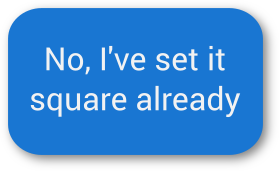
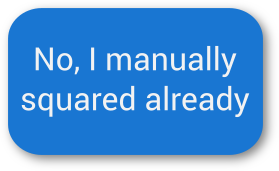
Language & btn tweaks to decision screen

Changed region(s): [[0.0573, 0.4971, 0.8889, 0.7018], [0.1147, 0.2632, 0.8602, 0.4678]]

diff --git a/src/asmcnc/skavaUI/screen_squaring_manual_vs_square.py b/src/asmcnc/skavaUI/screen_squaring_manual_vs_square.py
@@ -173,8 +173,8 @@ class SquaringScreenDecisionManualVsSquare(Screen):
         info = "[b]Manual squaring[/b]\n" \
                 "Before power up, the user manually pushes the X beam up against the bench legs at the home end. " \
                 "The power is then switched on. " \
-                "The motor coils lock the lower beam into position with a very high degree of reliability. " \
-                "Thus, mechanical adjustments to square the beam can be repeated reliably.\n\n" \
+                "The motor coils lock the lower beam into position with a high degree of reliability. " \
+                "Thus, mechanical adjustments to square the beam can be repeated.\n\n" \
                 "[b]Auto squaring[/b]\n" \
                 "No special preparation from the user is needed. " \
                 "When homing, the lower beam automatically drives into the legs to square the X beam against the bench legs. " \
